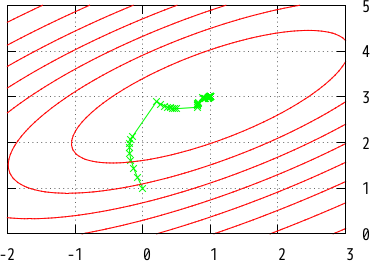
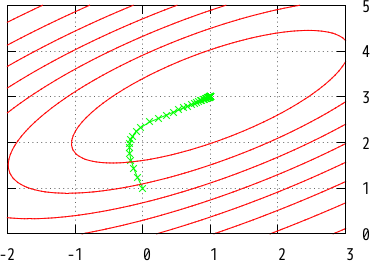
Remove the upper bound prameter from wolfe_search

Changed region(s): [[0.3568, 0.3372, 0.5649, 0.5211]]

diff --git a/demo-gradopt.md b/demo-gradopt.md
@@ -198,30 +198,31 @@ We can find a learning rate satisfying the conditions by
 [bisection search](https://en.wikipedia.org/wiki/Bisection_method):
 
 ```OCaml
-# let wolfe_search ?(c1=1e-4) ?(c2=0.9) ?(init=1.0) ?(upper=100.0) df f p x =
-    let middle lo hi = 0.5 *. (lo +. hi) in
+# let middle lo hi = 0.5 *. (lo +. hi) in
+    let upper alpha = function (* Compute a new upper bound *)
+      | None -> 2.0 *. alpha
+      | Some hi -> middle alpha hi in
     let q = dot p (df x) in
     let y = f x in
     let xap = Vec.create (Vec.dim x) in
     let rec aux lo hi alpha =
       ignore (copy ~y:xap x); (* xap := x *)
       axpy ~alpha p xap; (* xap := xap + alpha * p *)
-      if f xap > y +. c1 *. alpha *. q then aux lo alpha (middle lo alpha)
-      else if dot p (df xap) < c2 *. q then aux alpha hi (middle alpha hi)
-      else alpha
+      if f xap > y +. c1 *. alpha *. q then aux lo (Some alpha) (middle lo alpha)
+      else if dot p (df xap) < c2 *. q then aux alpha hi (upper alpha hi)
+      else alpha (* Both of two conditions are satisfied. *)
     in
-    aux 0.0 upper init;;
+    aux 0.0 None init;;
 val wolfe_search :
-  ?c1:float -> ?c2:float -> ?init:float -> ?upper:float ->
+  ?c1:float -> ?c2:float -> ?init:float ->
   (('a, 'b) vec -> ('a, 'c) vec) ->
   (('a, 'b) vec -> float) -> ('a, 'd) vec -> ('a, 'b) vec -> float = <fun>
 ```
 
-`wolfe_search ?c1 ?c2 ?init ?upper df f p x` returns a learning rate
-satisfying Wolfe conditions. Optional arguments `init` and `upper`
-indicate the initial value and the upper bound of bisection search.
-Execution of this function becomes faster by passing suitable values
-to `init` and `upper`. However, if computation cost of a target function
+`wolfe_search ?c1 ?c2 ?init df f p x` returns a learning rate
+satisfying Wolfe conditions. Optional argument `init`
+indicates the initial value of bisection search.
+If computation cost of a target function
 and its derivative is quite large, `wolfe_search` is inefficient.
 
 The following code implements steepest descent method with automatic search
@@ -248,8 +249,8 @@ val steepest_descent_wolfe :
 Loop 1: f x = -0.83552, x = -0.0778801 1.23364
 Loop 2: f x = -0.877268, x = -0.135404 1.43875
 ...
-Loop 59: f x = -1, x = 0.998372 2.99915
-Loop 60: f x = -1, x = 0.999408 2.99925
+Loop 59: f x = -1, x = 0.999683 2.9998
+Loop 60: f x = -1, x = 0.999731 2.99983
 ```
 
 <figure>
@@ -257,10 +258,9 @@ Loop 60: f x = -1, x = 0.999408 2.99925
 <figcaption>Fig 3. Convergence of steepest descent + Wolfe conditions (60 steps)</figcaption>
 </figure>
 
-The steps of naive steepest descent (described at the previous section)
-gradually gets small during the iteration (see Fig 2),
-but large steps appear in Fig 3 because large learning rates are sometimes chosen.
-They accelerate convergence.
+The convergence of Fig 3 is similar to that of Fig 2
+(naive steepest descent described at the previous section),
+but the former is faster than the latter.
 
 Newton method
 -------------
